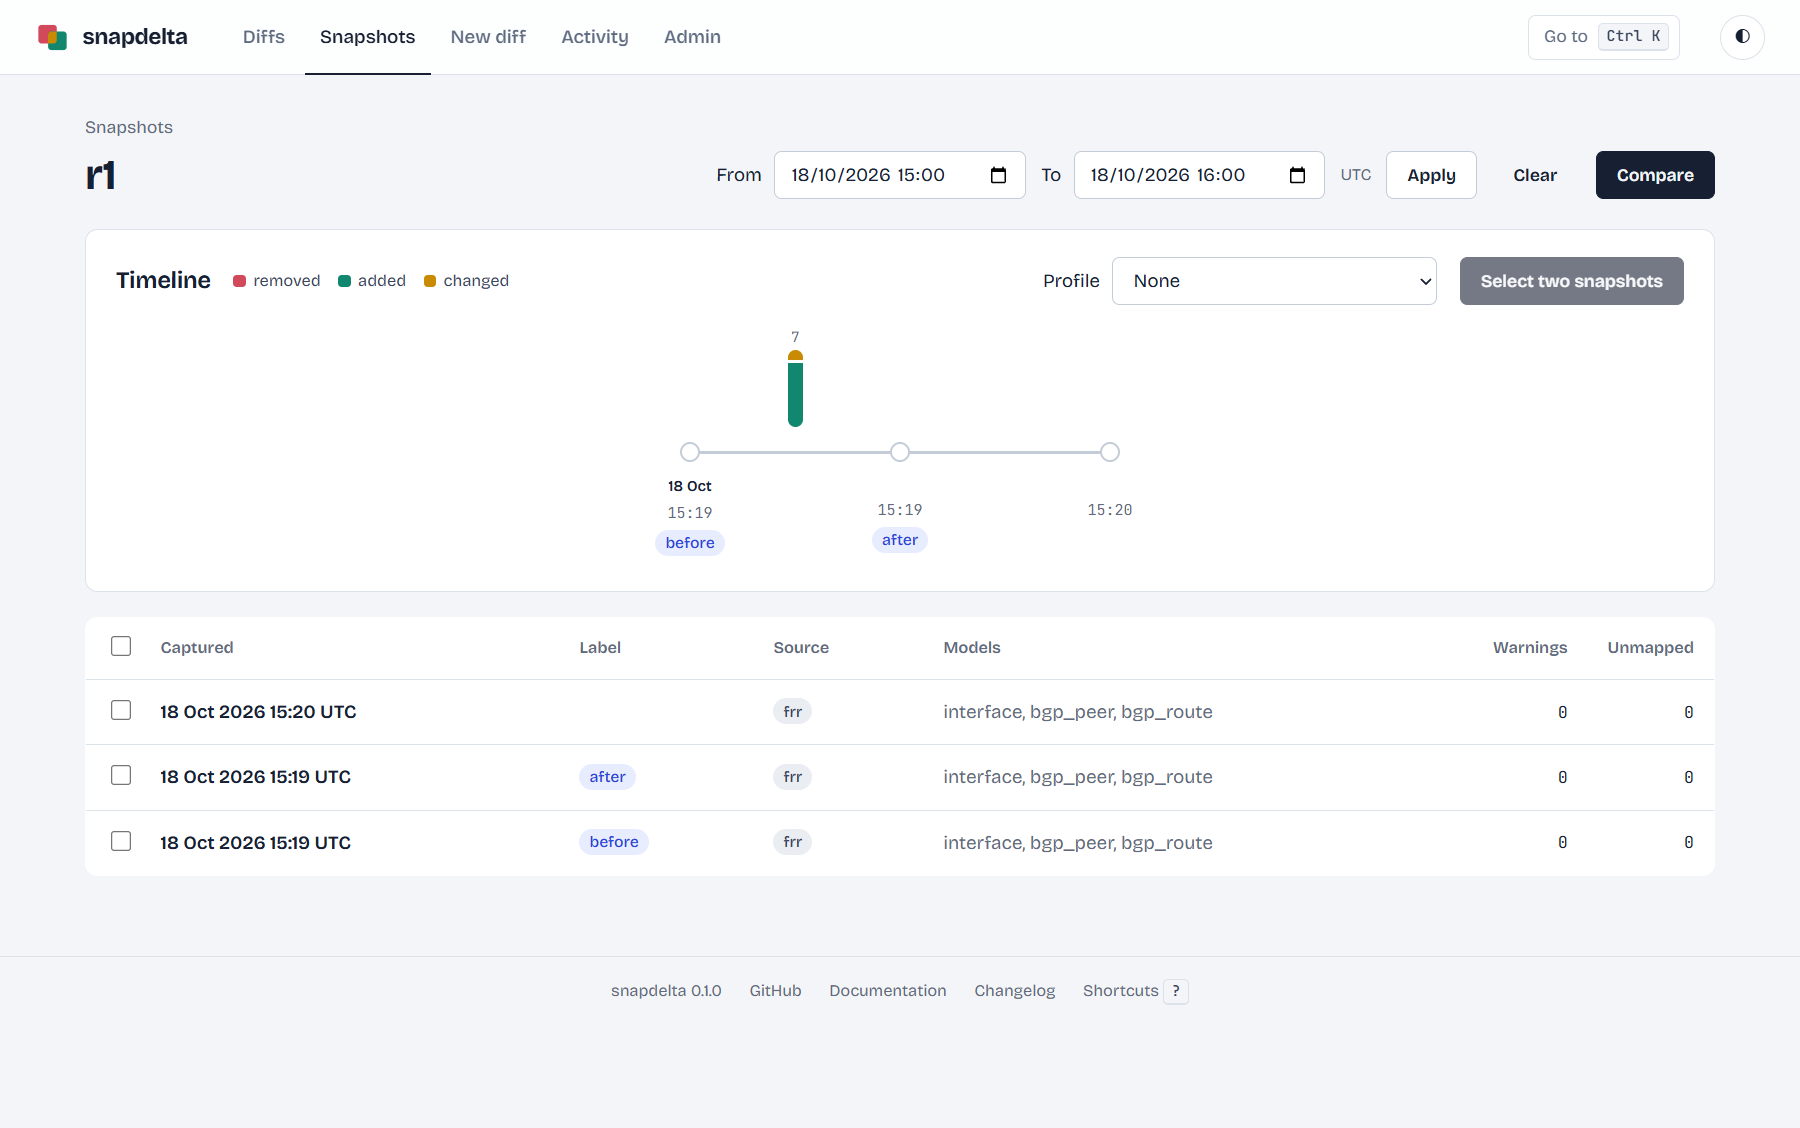
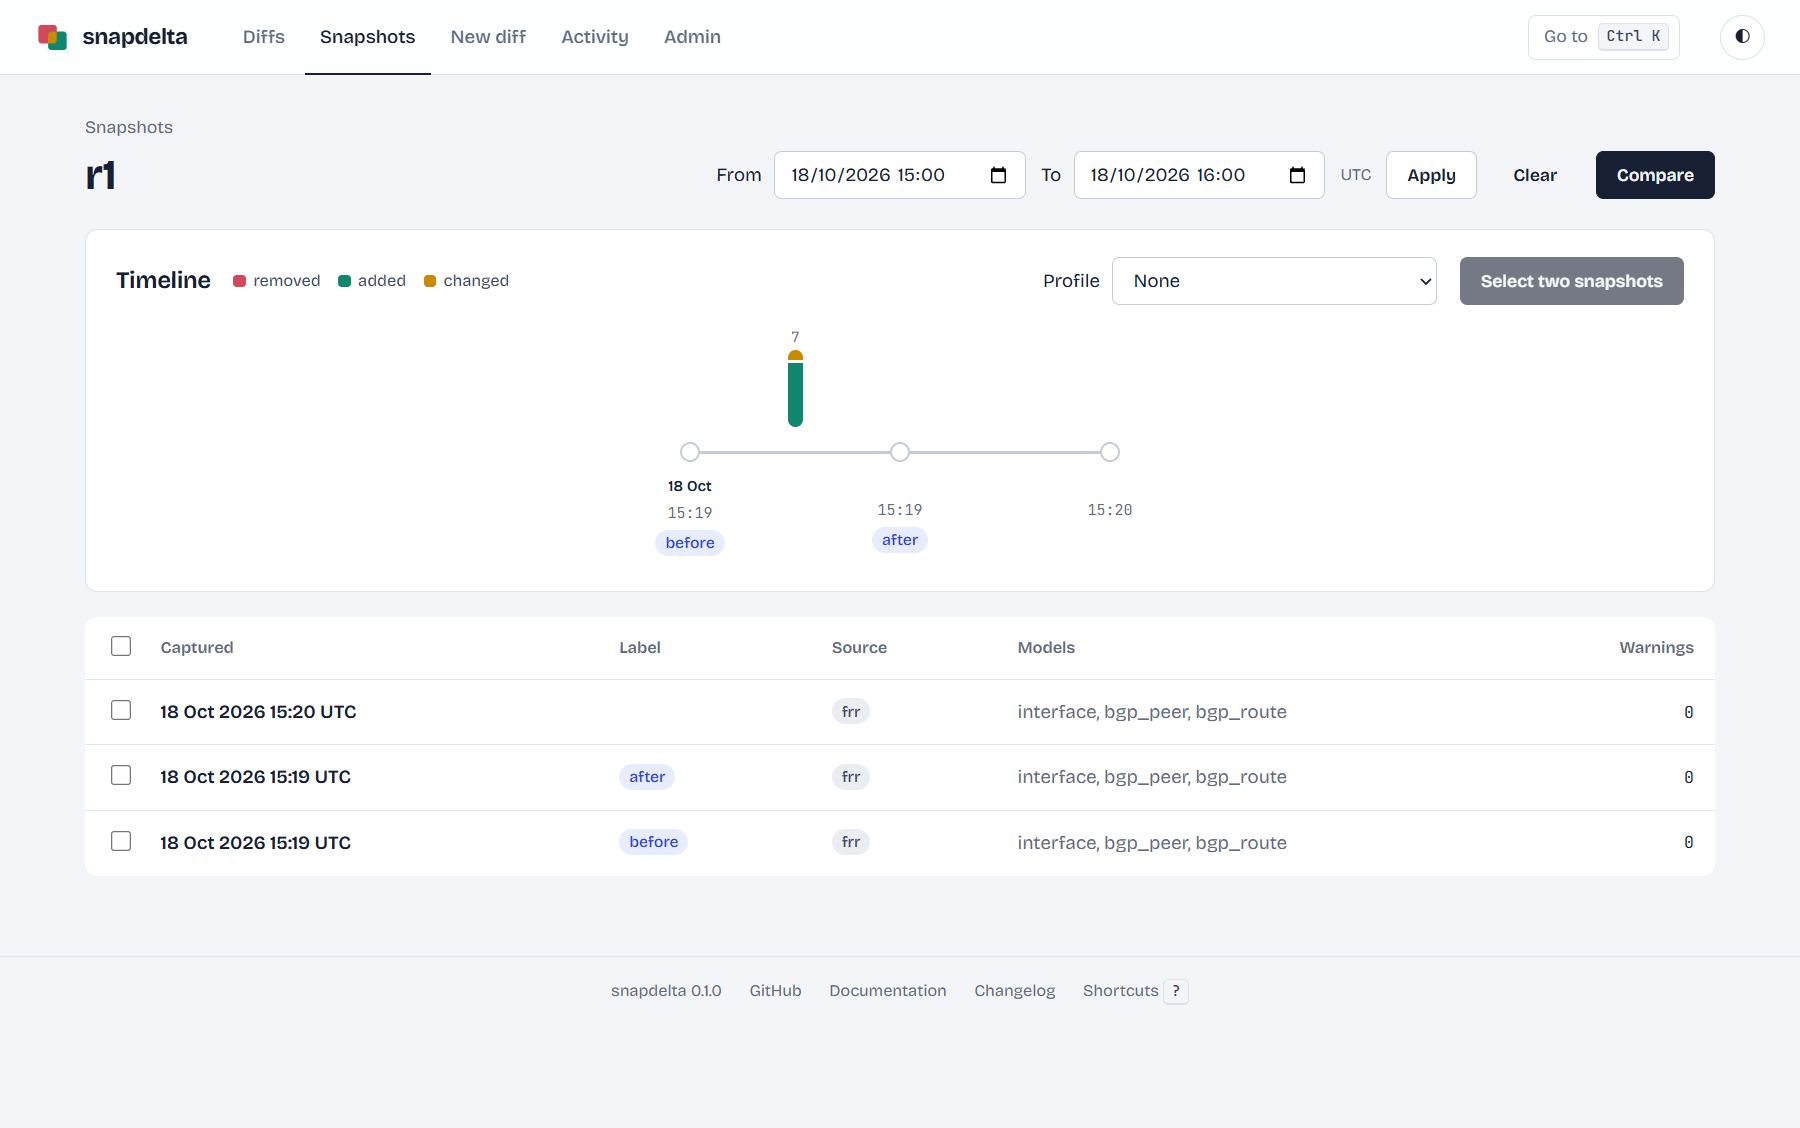
refactor: remove the unmapped list of a snapshot

diff --git a/packages/snapdelta-web/src/snapdelta_web/templates/target.html b/packages/snapdelta-web/src/snapdelta_web/templates/target.html
@@ -22,7 +22,7 @@
 <input type="hidden" name="since" value="{{ period.since_text }}">
 <input type="hidden" name="until" value="{{ period.until_text }}">
 <table class="list">
-  <thead><tr><th class="pick"><input type="checkbox" data-select-all aria-label="Select all on this page"></th><th>Captured</th><th>Label</th><th>Source</th><th>Models</th><th class="num-col">Warnings</th><th class="num-col">Unmapped</th></tr></thead>
+  <thead><tr><th class="pick"><input type="checkbox" data-select-all aria-label="Select all on this page"></th><th>Captured</th><th>Label</th><th>Source</th><th>Models</th><th class="num-col">Warnings</th></tr></thead>
   <tbody>
     {% for row in rows %}
     <tr>
@@ -32,10 +32,9 @@
       <td><span class="tag">{{ row.source }}</span></td>
       <td class="muted">{{ row.loaded | join(", ") }}</td>
       <td class="num-col mono {{ 'warn-text' if row.warnings }}">{{ row.warnings }}</td>
-      <td class="num-col mono">{{ row.unmapped }}</td>
     </tr>
     {% else %}
-    <tr><td colspan="7" class="muted">No snapshot in this period.</td></tr>
+    <tr><td colspan="6" class="muted">No snapshot in this period.</td></tr>
     {% endfor %}
   </tbody>
 </table>

diff --git a/packages/snapdelta-web/src/snapdelta_web/templates/snapshot.html b/packages/snapdelta-web/src/snapdelta_web/templates/snapshot.html
@@ -13,7 +13,6 @@
 <dl class="facts">
   <div><dt>Captured</dt><dd>{{ adapter.captured_at | when }}</dd></div>
   <div><dt>Models</dt><dd>{{ adapter.loaded | join(", ") }}</dd></div>
-  <div><dt>Unmapped fields</dt><dd class="mono">{{ adapter.unmapped | length }}</dd></div>
   <div class="wide"><dt>Inputs</dt><dd class="mono">{{ adapter.inputs | map(attribute="name") | join(", ") or "none" }}</dd></div>
 </dl>
 {% if adapter.warnings %}<ul class="notice warn">{% for warning in adapter.warnings %}<li>{{ warning }}</li>{% endfor %}</ul>{% endif %}

diff --git a/packages/snapdelta/src/snapdelta/cli.py b/packages/snapdelta/src/snapdelta/cli.py
@@ -316,7 +316,7 @@ def snapshot_command(
         if len(names) > 1:
             raise SnapdeltaError("one target at most with input files: the files belong to one target")
         loaded = _load(settings, cls.source, files or [], names[0] if names else None, label, when)
-        _print_saved(runtime.store.save_snapshot(loaded), loaded.loaded, loaded.warnings, len(loaded.unmapped))
+        _print_saved(runtime.store.save_snapshot(loaded), loaded.loaded, loaded.warnings)
         return
     if not (targets or groups or all_targets):
         raise SnapdeltaError("the source fetches its data from a target: give --target, --group or --all-targets")
@@ -324,19 +324,18 @@ def snapshot_command(
         runtime.store, settings, source, targets or [], groups or [], all_targets, label, "cli", jobs, when
     )
     for item in taken.values():
-        _print_saved(item.reference, item.loaded, item.warnings, item.unmapped)
+        _print_saved(item.reference, item.loaded, item.warnings)
     for message in failures.values():
         typer.echo(f"error: {message}", err=True)
     if failures:
         raise typer.Exit(2)
 
 
-def _print_saved(reference: str, loaded: list[str], warnings: list[str], unmapped: int) -> None:
+def _print_saved(reference: str, loaded: list[str], warnings: list[str]) -> None:
     typer.echo(f"saved {reference}")
     typer.echo(f"loaded: {', '.join(loaded)}")
     for warning in warnings:
         typer.echo(f"warning: {warning}")
-    typer.echo(f"unmapped leaves: {unmapped}")
 
 
 @app.command("list")

diff --git a/packages/snapdelta/src/snapdelta/snapshot.py b/packages/snapdelta/src/snapdelta/snapshot.py
@@ -29,7 +29,6 @@ class SnapshotFile(BaseModel):
     versions: dict[str, str]
     inputs: list[InputRef]
     loaded: list[str]
-    unmapped: list[str]
     warnings: list[str]
     # The log messages of the load, from the source plugin and from snapdelta.
     log: list[LogLine] = []
@@ -49,7 +48,6 @@ class StoredSource(Source):
     def load(self) -> None:
         self.load_from_dict(self.snapshot.data)
         self.inputs = list(self.snapshot.inputs)
-        self.unmapped = list(self.snapshot.unmapped)
         self.warnings = list(self.snapshot.warnings)
         self.log = list(self.snapshot.log)
         self.set_loaded(self.snapshot.loaded)
@@ -66,7 +64,6 @@ def build_snapshot_file(adapter: Source) -> SnapshotFile:
         versions=adapter.versions(),
         inputs=adapter.inputs,
         loaded=adapter.loaded,
-        unmapped=adapter.unmapped,
         warnings=adapter.warnings,
         log=adapter.log,
         # `model_flags` is a diffsync runtime flag and is not JSON-serializable.

diff --git a/packages/snapdelta/tests/test_store.py b/packages/snapdelta/tests/test_store.py
@@ -66,6 +66,17 @@ def test_file_store_reads_the_current_layout_and_paths(make_adapter, tmp_path) -
     assert [entry.reference for entry in store.snapshot_entries("R1")] == ["R1/20260925T100000Z"]
 
 
+def test_a_snapshot_saved_with_unmapped_still_reads(make_adapter, tmp_path) -> None:
+    import json
+
+    store = FileStore(tmp_path)
+    path = tmp_path / "snapshots" / "R1" / "20260925T100000Z.json"
+    path.parent.mkdir(parents=True)
+    save_snapshot(make_adapter(), path)
+    path.write_text(json.dumps(json.loads(path.read_text()) | {"unmapped": ["interfaces.eth0.speed"]}))
+    assert store.read_snapshot("R1/20260925T100000Z").target == "R1"
+
+
 def test_sqlite_tables_use_target_columns(tmp_path) -> None:
     import sqlite3
 

diff --git a/packages/snapdelta/src/snapdelta/take.py b/packages/snapdelta/src/snapdelta/take.py
@@ -25,7 +25,6 @@ class Taken:
     reference: str
     loaded: list[str]
     warnings: list[str]
-    unmapped: int
 
 
 def target_names(
@@ -128,7 +127,7 @@ def take_snapshots(
         for outcome in outcomes.values():
             run.log.extend(outcome.log)
         taken = {
-            target: Taken(outcome.reference, outcome.loaded, outcome.warnings, outcome.unmapped)
+            target: Taken(outcome.reference, outcome.loaded, outcome.warnings)
             for target, outcome in outcomes.items()
             if outcome.reference is not None
         }

diff --git a/packages/snapdelta/src/snapdelta/runners.py b/packages/snapdelta/src/snapdelta/runners.py
@@ -46,7 +46,6 @@ class LoadOutcome(BaseModel):
     reference: str | None = None
     loaded: list[str] = []
     warnings: list[str] = []
-    unmapped: int = 0
     error: str | None = None
     log: list[LogLine] = []
 
@@ -122,7 +121,6 @@ def execute(task: LoadTask, settings: Settings, store: Store) -> LoadOutcome:
             reference=reference,
             loaded=loaded.loaded,
             warnings=loaded.warnings,
-            unmapped=len(loaded.unmapped),
             log=lines,
         )
 

diff --git a/packages/snapdelta-web/src/snapdelta_web/views.py b/packages/snapdelta-web/src/snapdelta_web/views.py
@@ -141,7 +141,6 @@ class SnapshotRow:
     captured_at: datetime
     loaded: list[str]
     warnings: int
-    unmapped: int
 
 
 @dataclass(frozen=True)
@@ -646,7 +645,6 @@ def target_snapshot_rows(
                 captured_at=snapshot.captured_at,
                 loaded=snapshot.loaded,
                 warnings=len(snapshot.warnings),
-                unmapped=len(snapshot.unmapped),
             )
         )
     return rows, unreadable, pager

diff --git a/packages/snapdelta/src/snapdelta/source.py b/packages/snapdelta/src/snapdelta/source.py
@@ -76,7 +76,6 @@ class Source(Adapter):
         self.captured_at = captured_at
         self.inputs: list[InputRef] = []
         self.loaded: list[str] = []
-        self.unmapped: list[str] = []
         self.warnings: list[str] = []
         # The log messages of the load; see activity.collecting().
         self.log: list[LogLine] = []

diff --git a/CHANGELOG.md b/CHANGELOG.md
@@ -26,13 +26,14 @@
 
 ### Changed
 
+- A snapshot has no `unmapped` list any more, nor the web UI and `snapdelta snapshot` its count: no source filled it. snapdelta still reads the snapshots that hold one; snapdelta 0.1 cannot read the snapshots that this version saves.
 - A run lists its diffs in `outputs`, in place of `output` (the runs saved by 0.1 still read); `--target` of `snapdelta diff` now selects targets, and `--live` fetches the target of the left snapshot.
 - `snapdelta diff` has no `--source` and `--file` any more: take a snapshot of the files (`snapdelta snapshot FILES --source S --label after`), then compare two snapshots, the one way to give the right side. `diff_snapshots(right=SOURCE)` stays in Python.
 
 - One plugin registry, `snapdelta.plugins`, for the four entry point groups, and the built-in stores, formats and Nornir inventory are entry points of the `snapdelta` package. A store backend, a format or an inventory format that cannot load is left out with its error, as a source already was, instead of a traceback; so is a plugin of the wrong kind, a name that two packages give, and a source whose `source` is not its entry point name.
 - `snapdelta.settings.Auth` is gone: `[web] auth` names an auth backend. The functions `token_of()`, `access_text()` and `valid_session()` of `snapdelta_web.auth` are now the `TokenAuth` backend, `describe()` and `session_user()`; a session cookie also holds the user name, so the sessions of a server before this version end.
 - `Secret(env="NAME")` is `Secret(backend="env", reference="NAME")` in Python; the file keeps `{ env = "NAME" }`.
-- `take_snapshots()` and `snapshot_targets()` give each saved snapshot as a `Taken` of data (`reference`, `loaded`, `warnings`, `unmapped`) in place of the loaded source, and refuse a source class that is not the one of the registry; `Progress` moves to `snapdelta.runners`.
+- `take_snapshots()` and `snapshot_targets()` give each saved snapshot as a `Taken` of data (`reference`, `loaded`, `warnings`) in place of the loaded source, and refuse a source class that is not the one of the registry; `Progress` moves to `snapdelta.runners`.
 - The package of a plugin comes from its entry point: `Source.distribution` is gone, `register_source(cls)` takes the class only, and in `GET /api/v1/version` each plugin package lists `plugins` (`source example`) in place of `sources`.
 - **New diff** has a switch, **One target** or **Many targets**, with the same Before and After boxes, fields and **Compare** button; the After side takes the target of the Before side until you choose another one, and Many targets also takes a description.
 - **Admin > Plugins** shows a green check mark for a plugin in use; its title lists where the settings use it.

diff --git a/docs/stores.md b/docs/stores.md
@@ -69,7 +69,7 @@ Unsafe characters in a target or a label become `_`. A name with `..` or another
 ```
 
 - Each file is written to a temporary file first, then renamed, so an interrupted write never leaves a broken file.
-- The files are readable JSON. A snapshot holds `schema`, `target`, `source`, `label`, `captured_at`, `created_at`, `versions`, `inputs` (names and SHA-256 of the input files), `loaded` (the models), `unmapped`, `warnings`, and `data` (the diffsync data of the load). An output holds `schema`, `created_at`, `versions`, `left` and `right` (target, source, label, capture time, snapshot reference), `compared`, `skipped`, `summary` and `diff` (diffsync `Diff.summary()` and `Diff.dict()`).
+- The files are readable JSON. A snapshot holds `schema`, `target`, `source`, `label`, `captured_at`, `created_at`, `versions`, `inputs` (names and SHA-256 of the input files), `loaded` (the models), `warnings`, and `data` (the diffsync data of the load). An output holds `schema`, `created_at`, `versions`, `left` and `right` (target, source, label, capture time, snapshot reference), `compared`, `skipped`, `summary` and `diff` (diffsync `Diff.summary()` and `Diff.dict()`).
 - Long lists read only the directory and file names: the list of targets and of the snapshots of a target never opens a file.
 
 ## SQLite store layout

diff --git a/README.md b/README.md
@@ -169,7 +169,7 @@ snapdelta doctor                                         # each plugin against i
 
 The contract tests of `snapdelta.testing` (`StoreContract`, `SourceContract`) give a plugin the tests that every plugin of its kind must pass. [docs/plugins.md](docs/plugins.md) is the guide, and [docs/getting-started.md](docs/getting-started.md) writes a project with two sources step by step. For a source, three rules:
 
-- Both sides must give the same value for the same meaning: normalize names, units and defaults in `load()`, sort lists, and use `None` when the data gives no value. Put the input fields that no attribute maps in `unmapped`.
+- Both sides must give the same value for the same meaning: normalize names, units and defaults in `load()`, sort lists, and use `None` when the data gives no value.
 - A source that fetches (`fetches = True`) can list the targets that it reaches with the class method `targets()`, for the pickers of the web UI and `--all-targets`.
 - A snapshot names its source, so keep the plugin installed to read its snapshots.
 
